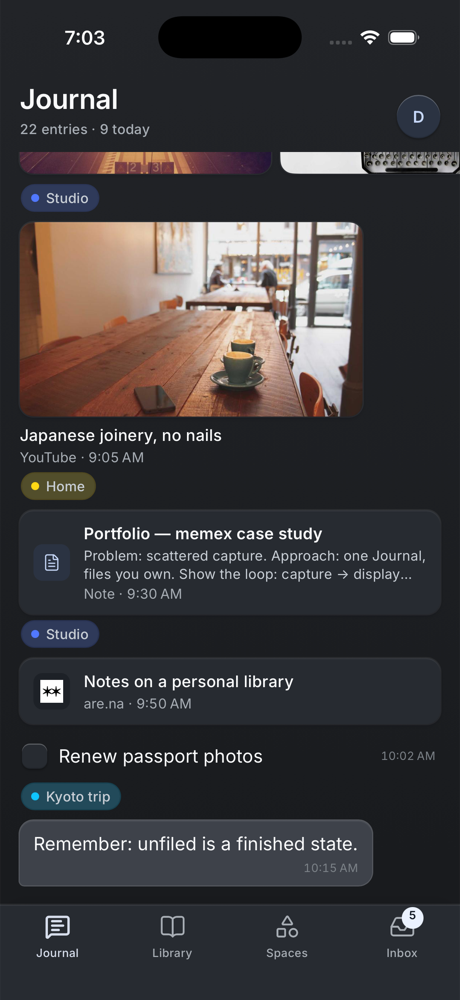
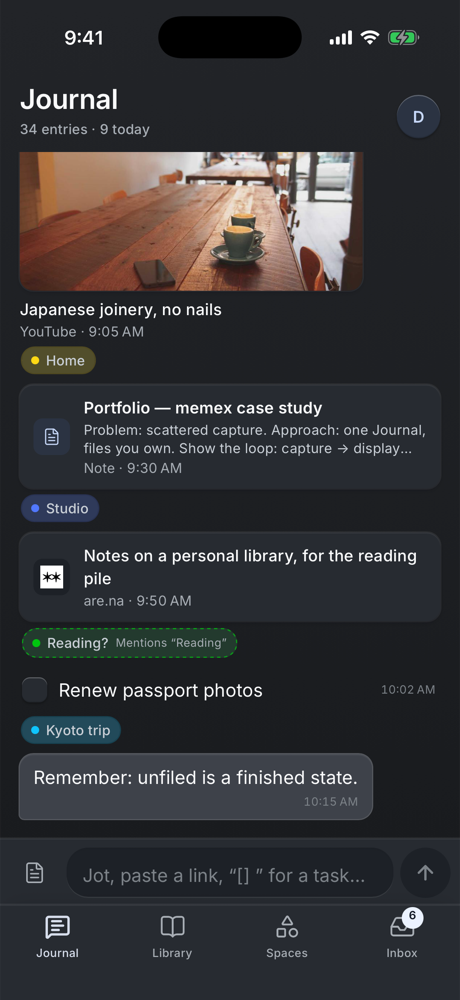
Docs: docs/mobile.md for the composer, link detail and Library (M6-B), new screenshots
Light and dark screenshots on demo data: Journal with the composer (empty,
typing a task with @Space, the filer's suggestion, after sending), link
detail, Library. TODO and ROADMAP Phase 6 updated; EXPO_PUBLIC_SCRAPER_URL in
.env.example.

diff --git a/docs/mobile.md b/docs/mobile.md
@@ -2,17 +2,26 @@
 
 The native app lives in `apps/mobile`: React Native on **Expo SDK 58** with Expo Router. ROADMAP Phase 6, v1 on TestFlight. Following decision 20, it reads data straight from Supabase through `@memex/core`, using the same Repository and adapter as the web app. RLS limits every query to the signed-in user.
 
-**Status (2026-11-01, thread M6-A):** the app shell has four tabs (Journal, Library, Spaces, Inbox) and a sign-in screen, with email + password and GitHub OAuth. The Journal is a read-only feed built on core's model, with pull to refresh. Library, Spaces and Inbox are placeholders that already show real counts, the space list and the waiting Inbox items. Light and dark follow the system. Writing (composer, filing, task checks), the share extension and TestFlight come in later M6 threads.
+**Status (2026-11-01, threads M6-A and M6-B):** the app shell has four tabs (Journal, Library, Spaces, Inbox) and a sign-in screen, with email + password and GitHub OAuth. Light and dark follow the system.
+
+- **Journal** (M6-B): the feed plus a composer above the tab bar with the web's syntax, from core: plain text saves a jot, a lone URL saves a link, `[] ` starts a task, `@Space` files it, and the page button makes a note (phones have no ⌘↵). Saves appear at once and roll back if they fail. Tick tasks in place, tap a link for its detail, press a dashed suggestion chip to file an entry, long-press anything for its menu (Open, Mark done, File in…, Delete). Deleting and filing show a toast with Undo. Pull to refresh.
+- **Link detail** (M6-B): picture, title, description, source and date; spaces as toggles; Open in Safari (in-app browser), Share, Delete with Undo.
+- **Library** (M6-B): every saved link as a two-column masonry, newest saved first, with source chips, search and infinite scroll.
+- Spaces and Inbox are still placeholders that show real counts. The share extension, Spaces/Inbox and TestFlight come next.
 
 | | Light | Dark |
 | --- | --- | --- |
 | Sign in | ![](mobile/sign-in-light.png) | ![](mobile/sign-in-dark.png) |
-| Journal | ![](mobile/journal-light.png) | ![](mobile/journal-dark.png) |
+| Journal, composer empty | ![](mobile/journal-light.png) | ![](mobile/journal-dark.png) |
+| Typing a task with `@Ky…` (the space picker) | ![](mobile/journal-task-light.png) | ![](mobile/journal-task-dark.png) |
+| A draft task with the filer's suggestion | ![](mobile/journal-suggestion-light.png) | ![](mobile/journal-suggestion-dark.png) |
+| After sending a jot, a link `@Studio` and a task `@Kyoto trip` | ![](mobile/journal-sent-light.png) | ![](mobile/journal-sent-dark.png) |
+| Link detail | ![](mobile/link-light.png) | ![](mobile/link-dark.png) |
 | Library | ![](mobile/library-light.png) | ![](mobile/library-dark.png) |
-| Spaces | ![](mobile/spaces-light.png) | ![](mobile/spaces-dark.png) |
-| Inbox | ![](mobile/inbox-light.png) | ![](mobile/inbox-dark.png) |
+| Spaces (placeholder) | ![](mobile/spaces-light.png) | ![](mobile/spaces-dark.png) |
+| Inbox (placeholder) | ![](mobile/inbox-light.png) | ![](mobile/inbox-dark.png) |
 
-The signed-in screenshots use the dev-only demo data, not real data. They come from an iPhone 17 Pro simulator on iOS 26.4 running Expo Go 58.0.7.
+The signed-in screenshots use the dev-only demo data, not real data. They come from an iPhone 17 Pro simulator on iOS 26.4 running Expo Go 58.0.7. The simulator couldn't be tapped from scripts, so the composer states were reached with `?draft=` deep links and the saves with the dev-only `&send=1` (below); taps are covered by component tests instead.
 
 ## Run it
 
@@ -25,9 +34,11 @@ cp .env.example .env      # then fill in the web app's VITE_SUPABASE_URL / VITE_
 npm run ios               # starts Metro and opens the app in Expo Go on the simulator
 ```
 
-- **Demo data:** `npm run fixtures` (then press `i`) runs on built-in invented data with a signed-in demo user. Use `EXPO_PUBLIC_MEMEX_FIXTURES=signed-out npx expo start` to start at the sign-in screen instead, where any credentials sign in. Demo mode is dev-only. The flag is ignored when `__DEV__` is false, and `npm run check:release` (also in CI) fails if any fixture code reaches a release bundle. Demo writes always fail, so nothing pretends to save.
+- **Demo data:** `npm run fixtures` (then press `i`) runs on built-in invented data with a signed-in demo user. Use `EXPO_PUBLIC_MEMEX_FIXTURES=signed-out npx expo start` to start at the sign-in screen instead, where any credentials sign in. Demo mode is dev-only. The flag is ignored when `__DEV__` is false, and `npm run check:release` (also in CI) fails if any fixture code reaches a release bundle. Demo data is core's in-memory Repository (`@memex/core/memory`) over the app's demo rows, so writes work and vanish when the app reloads; nothing reaches Supabase, and link metadata isn't scraped.
+- **Deep links:** `memex:///?draft=<text>` (in Expo Go, `exp://127.0.0.1:8081/--/?draft=…`) opens the Journal with text in the composer; nothing is saved until you send. Only in a dev build on demo data, `&send=1` also sends it. That's how the simulator screenshots were made, and it can't write anywhere else. `…/--/link/<id>` opens link detail and `…/--/library` the Library.
+- **Link metadata:** set `EXPO_PUBLIC_SCRAPER_URL` (the web's `VITE_SCRAPER_URL`) to fill titles, descriptions and pictures when a link is saved from the composer. Without it, links save with what the URL says, and the favicon comes from Google's favicon service, as on the web.
 - **On your phone:** install Expo Go, run `npx expo start`, scan the QR code.
-- **Checks:** `npm run check` (typecheck, lint, Vitest) and `npm run check:release` (release iOS bundle, no fixture code). CI runs both in the `mobile` job of `.github/workflows/ci.yml`, next to the web job.
+- **Checks:** `npm run check` (typecheck, lint, then `npm test`: Vitest for the plain-TS `*.test.ts`, Jest with React Native Testing Library for the component `*.test.tsx`) and `npm run check:release` (release iOS bundle, no fixture code). CI runs both in the `mobile` job of `.github/workflows/ci.yml`, next to the web job.
 
 ## Architecture
 
@@ -35,17 +46,24 @@ npm run ios               # starts Metro and opens the app in Expo Go on the sim
 apps/mobile/
   app.json                 name, scheme `memex`, bundle id, splash, plugins
   metro.config.js          watches ../../packages/core; core's imports resolve from this app's node_modules
-  src/app/                 Expo Router routes
-    _layout.tsx            providers, fonts, Stack.Protected (signed in → tabs, signed out → sign-in)
+  jest.config.js, jest.setup.js   component tests (jest-expo); native modules the tests touch are mocked
+  src/app/                 Expo Router routes (no tests in here: every file is a route)
+    _layout.tsx            providers (theme, React Query, toast, data), fonts, Stack.Protected
     sign-in.tsx            email + password, Continue with GitHub
     auth/callback.tsx      memex://auth/callback (cold-start OAuth redirect)
-    (tabs)/                index (Journal), library, spaces, inbox
+    (tabs)/                index (Journal + composer), library (masonry), spaces, inbox
+    link/[id].tsx          link detail
   src/auth/                encryptedStorage (session at rest), oauth (redirect parsing), signInWithGitHub, SessionProvider
-  src/data/                config (EXPO_PUBLIC_*), repository, queryClient, journal (core model → feed), useJournal
-  src/data/fixtures/       DEV-ONLY demo data + read-only Repository
-  src/journal/             the feed and its entry renderers
+  src/data/                config, client (captured_client), keys (React Query), repository, DataProvider,
+                           actions (the writes), deleteQueue (Undo), journal (core model → feed), useJournal,
+                           library + useLibrary, scraper
+  src/data/fixtures/       DEV-ONLY demo rows + the memory Repository over them
+  src/journal/             Composer + composerModel, the feed and its entry renderers, entryMenu, useEntryActions
+  src/library/             LibraryCard
+  src/screens/             screen tests (Library, link detail)
+  src/testing/             renderWithData: the app's providers over the demo repository
   src/theme/               palette (core tokens → hex) and theme (type roles, paper / object depth)
-  src/ui/                  Text, Paper, Button (objects), TextField, Canvas, Wordmark, chips, placeholders
+  src/ui/                  Text, Paper, Button (objects), TextField, FilterChip, Toast, Canvas, Wordmark, chips, placeholders
 ```
 
 **A separate npm project, not a workspace member.** Expo SDK 58 pins React 19.3 and React Native 0.88. The web app is on React 19.1, and joining the root workspace would hoist two Reacts into one tree. So `apps/mobile` has its own `package-lock.json`, like `api/` and `extension/`, and depends on core with `"@memex/core": "file:../../packages/core"`. The web's install, lockfile, build and deploy are untouched; root ESLint ignores `apps/`. Two settings make core resolve its own imports from this app:
@@ -54,6 +72,16 @@ apps/mobile/
 - `tsconfig.json` maps `@supabase/supabase-js` to `./node_modules/…` for the same reason. supabase-js stays on `~2.49` to match the web, because newer typings reject core's `Database` type.
 
 **The data layer.** React Query hooks over the Repository live in the app (`src/data/useJournal.ts`), one query per resource, with keys that match the web's hooks. They have no web dependencies, so they can move into a shared `@memex/react` package when the web adopts them. That move was out of scope here: this thread didn't change the web's hooks. `src/data/journal.ts` turns rows into core's Journal model (`buildEntries` → `toParts` for day separators and runs of platform saves, `createFiler` and `inboxOf` for the Inbox) and converts space colours to hex.
+
+**Writes (M6-B).** `src/data/actions.ts` (`createJournalActions`) holds every write as plain functions over the Repository and the React Query cache, so they're unit-tested without React. Each one puts an optimistic row (`temp-` id) in the cache, swaps in the saved row when the Repository answers, and rolls back on failure. That's the same pattern as the web's hooks, which the app can't import (they live in the web app and depend on its store).
+
+- **Composer:** core's `parseComposer` decides what the text is, exactly as on the web (`src/journal/Composer.tsx` adds only the phone UI, and `composerModel.ts` the picker maths). A jot goes in its first `@space` (`profile_id`); tasks and notes are created, then filed in every `@space`. If only the filing fails, the item stays saved and a toast says which spaces failed.
+- **Links go through core's capture service** (`createCaptureService` over the new `createRepositoryCaptureStore`, `@memex/core/capture`), so a phone save dedupes exactly like the extension's: same platform id, the same post under another URL, or the same normalized URL. A duplicate isn't saved twice; the toast says “Already saved” and the requested spaces are still applied. New links get `source` / `source_id` / `url_key` from `identifySource`, `captured_by: 'app'` and `captured_client: 'memex-ios/<app version>'`. The web's own composer still saves links without these provenance fields; the phone follows the capture rules instead, since the schema already allows `app`.
+- **Delete with Undo:** `deleteQueue.ts` hides the entry at once and deletes it after 6 seconds unless Undo is pressed. If the delete fails, the entry comes back with an error toast. Pending deletes run straight away when the app goes to the background.
+- **Filing:** suggestion chips, the long-press “File in…” menu and the link detail toggles all go through `actions.file` / `unfile`, with Undo on the toast.
+- **Library:** `src/data/library.ts` runs core's `linkToItem`, `matchesLibraryFilters` (source), `itemMatchesSearch` and `sortItems` (newest saved), the same functions as the web Library. `useLibrary` hands FlashList one page of 24 at a time.
+
+**Feel.** The composer and its chips are objects: they settle when pressed and tick with haptics. Send gets a medium impact and success or error haptics when the save resolves. The feed, link detail and Library cards are paper: they tint when pressed but never move. The suggestion chip is dashed and carries its reason (web: `.jr-chip.is-suggested`). Toasts are announced to VoiceOver. Every entry's menu is also exposed as VoiceOver actions, and every control has a text label.
 
 **Auth.** `createMemexClient` is called with `flowType: 'pkce'`, `detectSessionInUrl: false` and an encrypted `AuthStorage`. SecureStore caps values at 2 KB, so each write encrypts the session with a fresh AES-256 key (CTR mode via `aes-js`, random bytes from `expo-crypto`). The key goes to the keychain (`AFTER_FIRST_UNLOCK`) and the ciphertext to AsyncStorage. GitHub sign-in calls `auth.signInWithOAuth('github', { redirectTo, skipBrowserRedirect: true })` and opens the URL with `WebBrowser.openAuthSessionAsync`, then passes the `code` from the redirect to `auth.exchangeCodeForSession`. Token refresh runs only while the app is in the foreground (`auth.setAutoRefresh`). Those three auth additions were made to core in this thread; they're additive and tested.
 
@@ -94,8 +122,10 @@ The next thread's commands, once 1–8 are in place: `npx eas-cli init` → `eas
 
 ## Known gaps
 
-- Read-only: no composer, filing, task checks or note editing yet (ROADMAP Phase 6 items 2–5).
+- **Notes:** you can write a note, but you can't open or edit one on the phone yet (ROADMAP: a DOM component around the web's `MarkdownEditor`). Tapping a note does nothing; long-press still offers its menu.
+- **Links on `.na` and other rare TLDs** (e.g. `https://www.are.na/…`) save as jots, on the web too: core's `normalizeUrlInput` only accepts TLDs on its allowlist (`packages/core/src/tlds.ts`), even with an explicit `https://`. Not changed here, because it would change the web's behaviour. Worth a decision.
+- Jots can't be turned into notes or tasks yet (the web has both).
+- Spaces and Inbox are placeholders. The Inbox's count is real, and its suggestions show as chips in the feed.
 - The canvas swatch is fixed to the default until a Settings screen exists. The web keeps its choice in localStorage, so it can't sync without a stored setting.
-- Library, Spaces and Inbox are placeholders.
-- No component or E2E tests yet: Vitest covers the plain-TS parts (encrypted storage, OAuth redirect parsing, palette, the Journal model on demo data, the fixture repository), and CI builds a release bundle. Maestro or Detox flows would be the next step.
+- No end-to-end tests: Vitest covers the plain-TS parts (writes, Undo queue, composer model, Library model, encrypted storage, OAuth parsing, palette, fixtures) and Jest + React Native Testing Library covers the screens (composer, tick, delete and Undo, filing, link detail, Library). Maestro flows on a simulator that can be tapped would be the next step.
 - `npx expo start` may rewrite `tsconfig.json`'s `include`; that's expected and harmless.

diff --git a/TODO.md b/TODO.md
@@ -18,6 +18,9 @@ v1 stays on Supabase + Cloudflare Workers. Details and phase mapping: `ROADMAP.m
 - [x] **`packages/core` + first tests** ✓ 2026-11-01 — npm workspace, shared logic and tokens in `@memex/core`, the `Repository` interface with a Supabase adapter (no supabase-js imports left in `src/`), 185 Vitest tests, CI (typecheck, lint, test, build)
 - [ ] **React Native (Expo) app on TestFlight** (Phase 6, on `packages/core`; talks to Supabase through `@memex/core/supabase` with SecureStore session storage, decision 20)
   - [x] Shell ✓ 2026-11-01 (M6-A): `apps/mobile` on Expo SDK 58: tabs (Journal, Library, Spaces, Inbox), sign-in (email + GitHub PKCE), read-only Journal feed with pull to refresh, light/dark, CI job. Run/architecture/screenshots: `docs/mobile.md`
+  - [x] Journal composer, interactions, link detail, Library ✓ 2026-11-01 (M6-B): composer on core's syntax (jot, link, `[]` task, `@Space`, note button) with optimistic saves, the @ picker and the filer's suggestion; tick, delete with Undo, filing chips, long-press menu; link detail (open in Safari, spaces, share, delete); Library masonry with source chips, search, infinite scroll. Links save through core's capture service (`captured_by: 'app'`). Jest + RNTL component tests. `docs/mobile.md`
+  - [ ] Next (M6): Spaces and Inbox tabs, the iOS share extension, a note view, then TestFlight
+  - [ ] Ryan: decide whether `https://` URLs on TLDs outside core's allowlist (e.g. `are.na`) should save as links; today they save as jots on web and phone (`docs/mobile.md` → Known gaps)
   - [ ] Ryan: add `memex://auth/callback` to Supabase Auth → Redirect URLs, and work through the TestFlight checklist in `docs/mobile.md` (Apple Developer Program, App Store Connect record + bundle id, API key, Expo account)
   - [ ] Next: composer + writes, filing, Library grid, EAS build → TestFlight
 - [ ] **Portfolio-ready screens** — v1 screens will appear on Ryan's public portfolio; plan demo data so screenshots don't show real jots

diff --git a/ROADMAP.md b/ROADMAP.md
@@ -250,9 +250,9 @@ Re-sync only needs `/api/capture`, so 5b–5d can start after Phase 3, before th
 ### Phase 6 — React Native app (Expo) · **v1 on TestFlight**
 *2026-11-01: v1 ships to TestFlight on today's backend; offline replicas + sync wait for the v2 vault backend. It reaches data through `@memex/core`'s Supabase adapter (decision 20, resolved 2026-11-01).*
 - [x] App shell: Expo Router tabs (Journal · Library · Spaces · Inbox per decision 16A), theme from core tokens, dark mode — *2026-11-01, `apps/mobile` (`docs/mobile.md`); Journal feed read-only so far*
-- [ ] Journal feed + composer (keyboard-avoiding, chat-style list), entry cards per type
+- [x] Journal feed + composer (keyboard-avoiding, chat-style list), entry cards per type — *2026-11-01 (M6-B): composer on core's syntax, tick / delete with Undo / filing in the feed*
 - [ ] Share extension (iOS) / share target (Android) → entry, optional space
-- [ ] Library: spaces row + masonry grid; link detail; open in browser
+- [ ] Library: spaces row + masonry grid; link detail; open in browser — *2026-11-01 (M6-B): masonry of links with source chips and search, link detail, open in the in-app Safari; the spaces row is still to do*
 - [ ] Note view/edit via a DOM component wrapping the web `MarkdownEditor`
 - [ ] Offline + sync via core (**v2**, needs Phase 4); TestFlight (**v1**)
 
